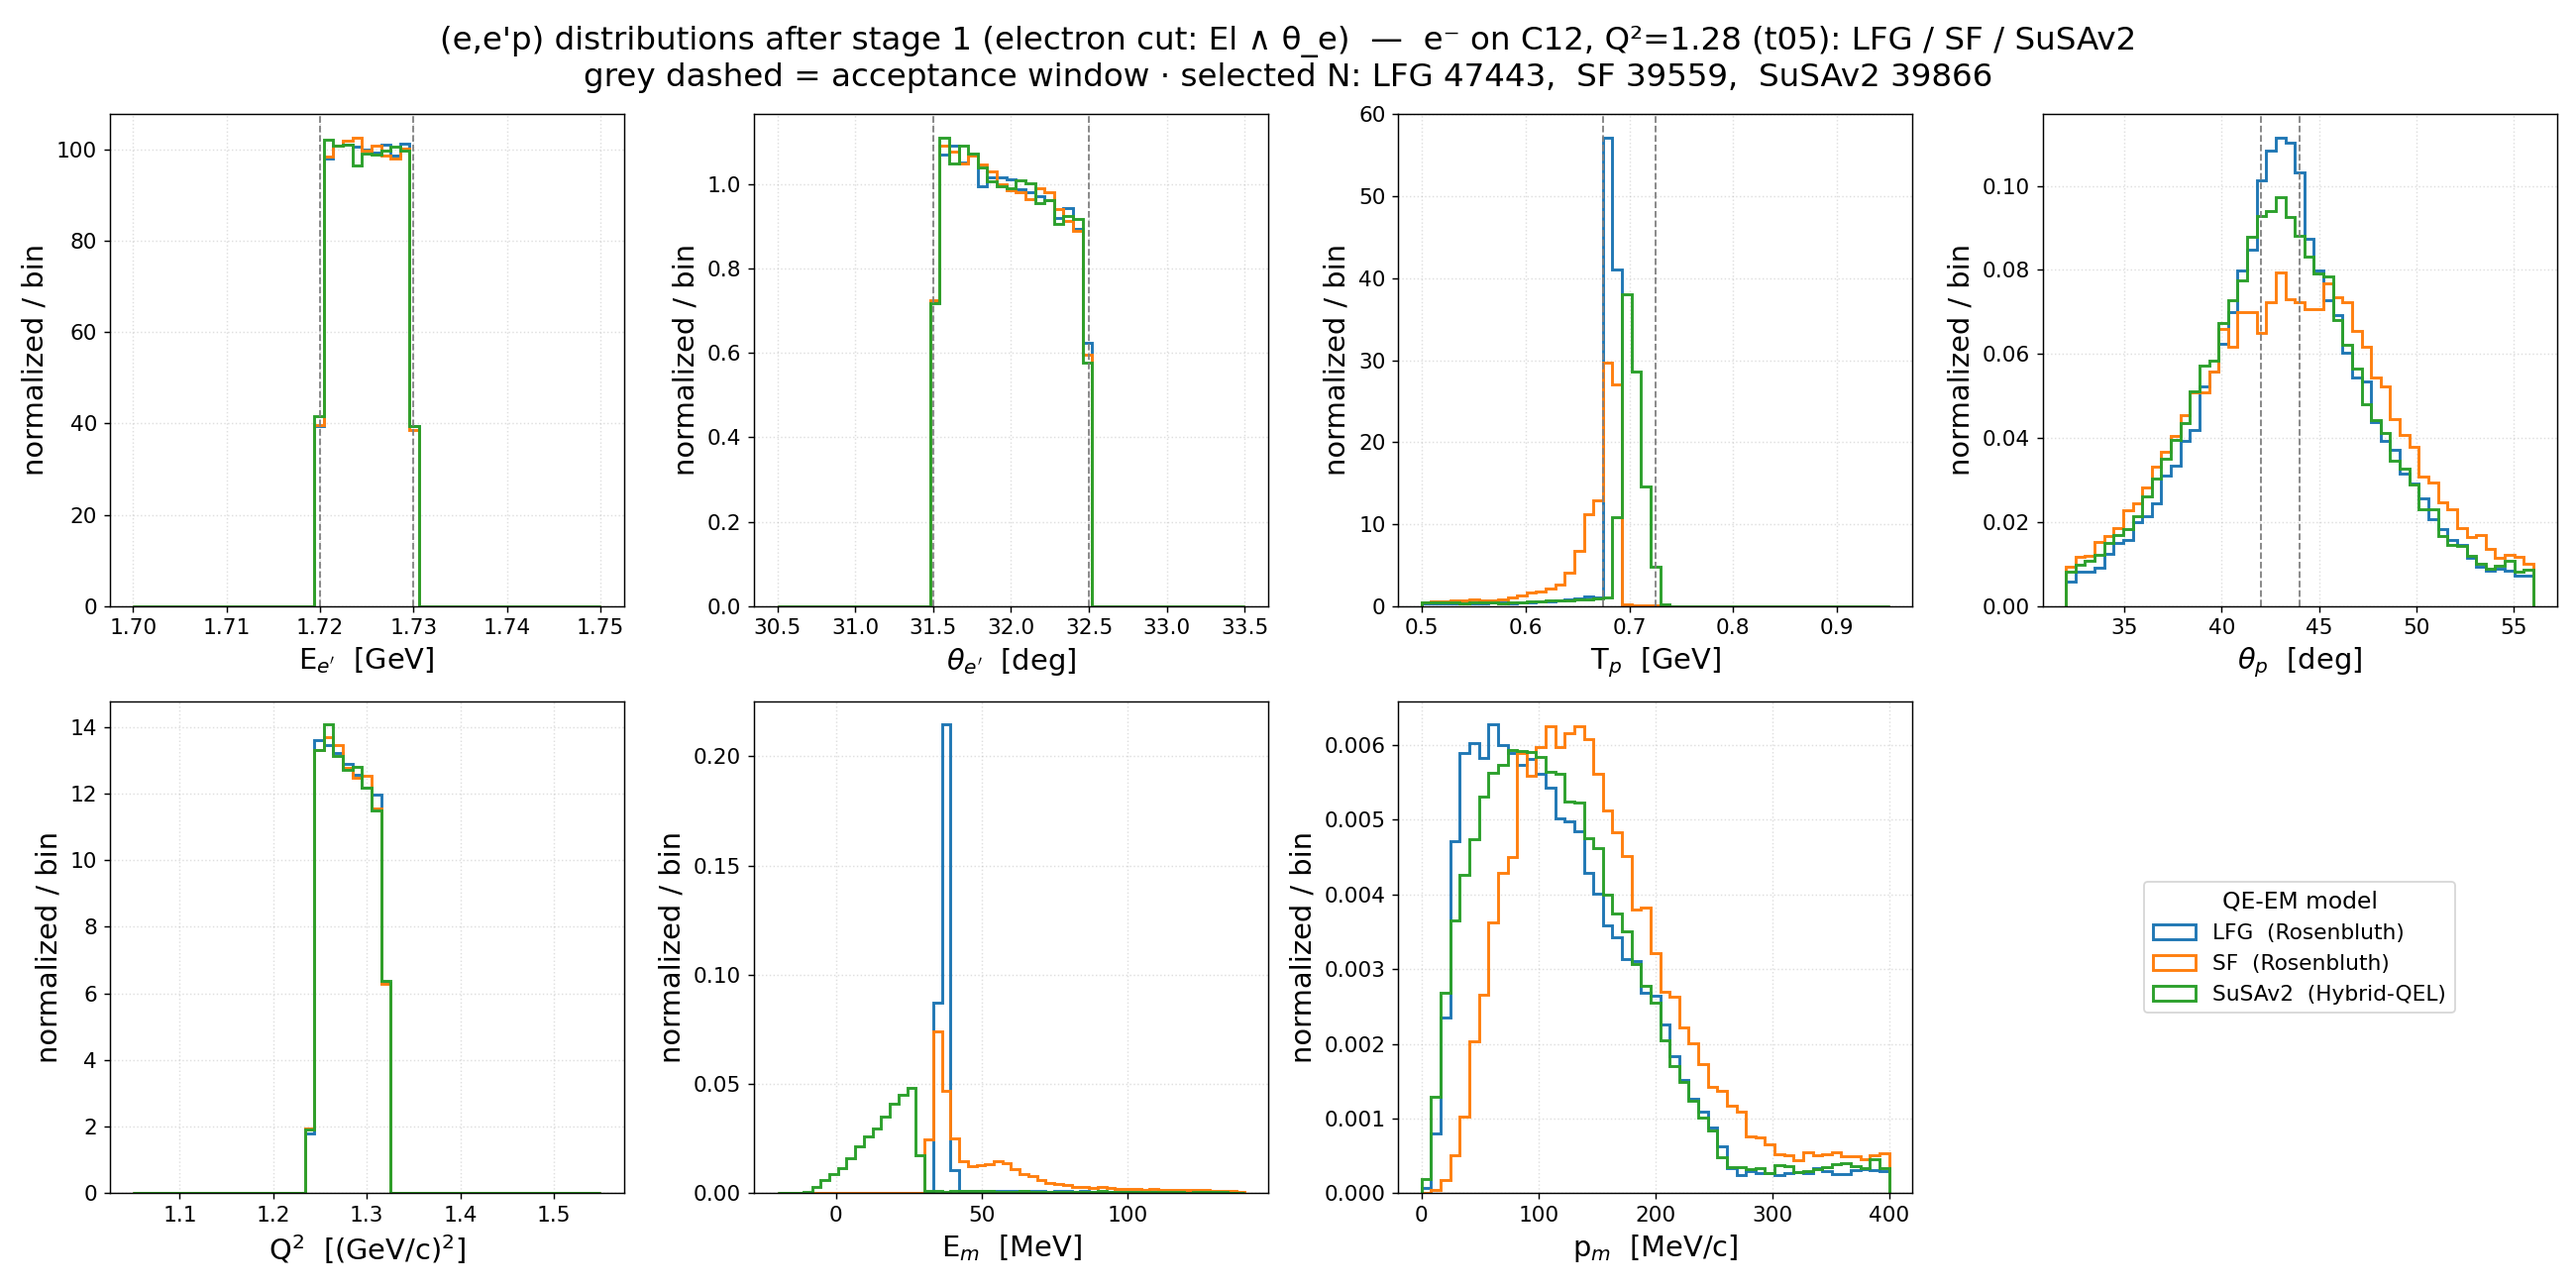
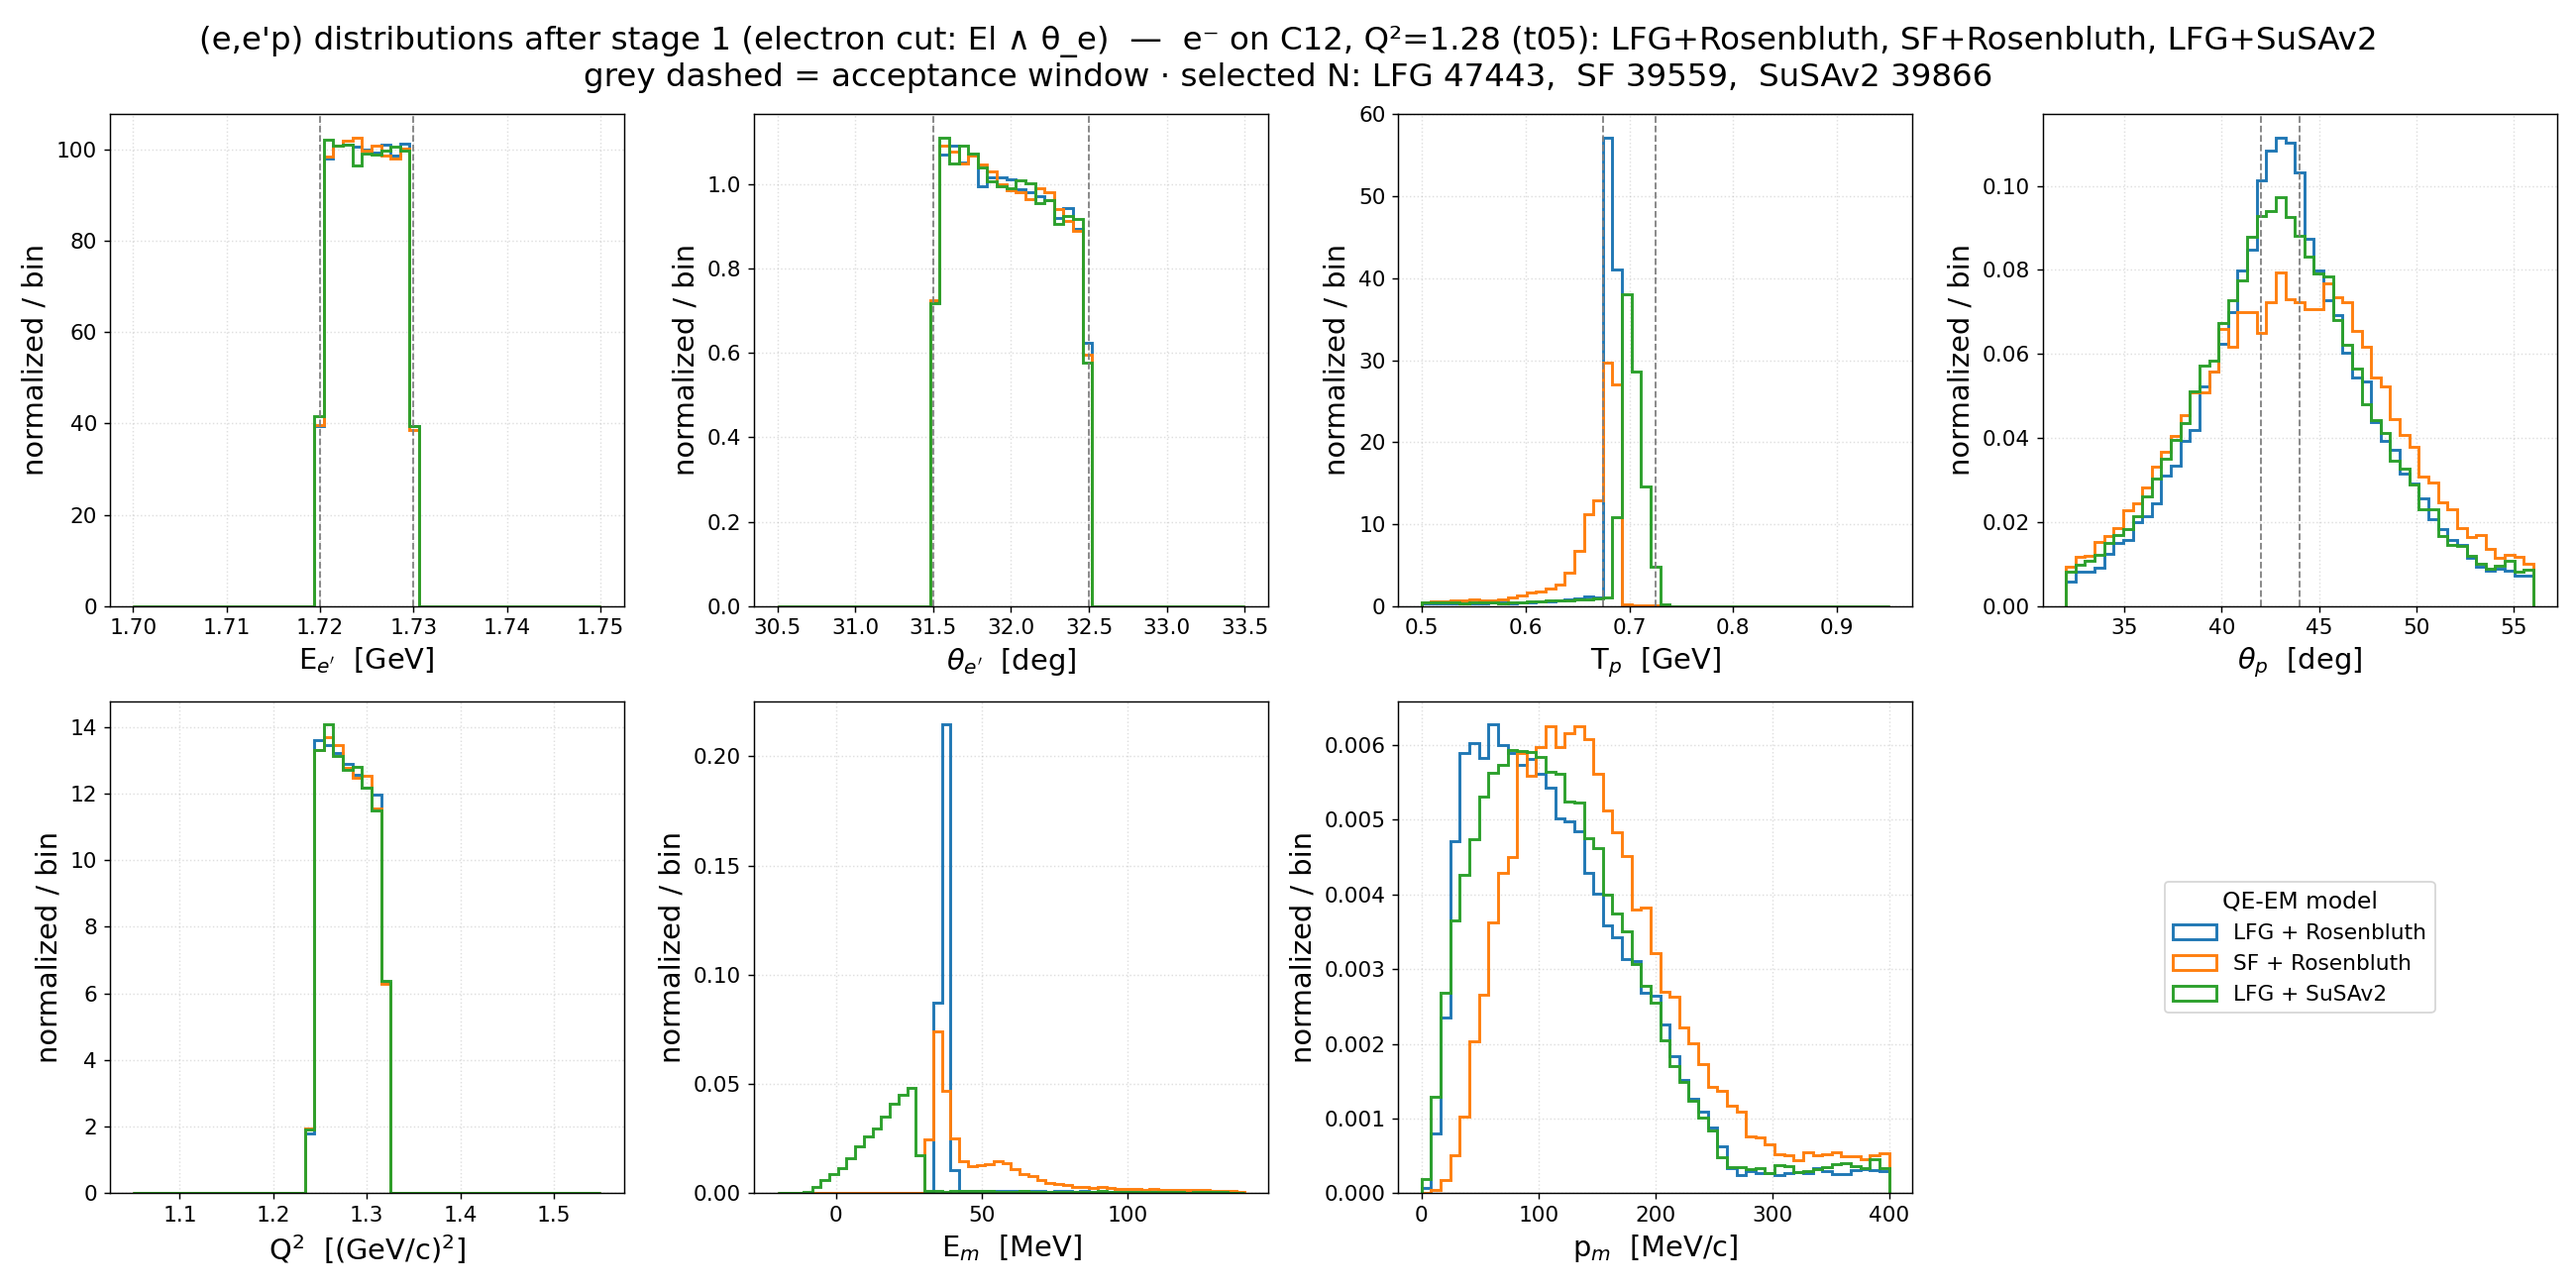
results/prd-analyzer: label configs as <ground state> + <QE model>
Relabel the three configs to LFG + Rosenbluth / SF + Rosenbluth / LFG + SuSAv2
(GEM21_11a is LocalFGM + HybridXSecAlgorithm/SuSAv2-QEL, i.e. LFG ground state,
not a distinct one). Makes the axes explicit: LFG vs SF isolates the ground state
(both Rosenbluth); LFG+Rosenbluth vs LFG+SuSAv2 isolates the QE-EM cross section
(both Local Fermi Gas). Updated samples.py labels, the three plot scripts
(legends, 2D cell titles, suptitles) and the README table; figures regenerated
(cache unchanged).

Changed region(s): [[0.4673, 0.0, 0.9035, 0.0615], [0.1246, 0.0, 0.4673, 0.0615], [0.8412, 0.7077, 0.9346, 0.8]]

diff --git a/results/prd-analyzer/samples.py b/results/prd-analyzer/samples.py
@@ -5,10 +5,13 @@ Three quasi-elastic EM models on C12 at E_beam = 2.445 GeV, generation cut `_05`
 setting). Each sample is ~10M events; instead of pre-pulling the grid output, we
 **stream the gst files straight off dCache over XRootD** (root://).
 
-    key      tune              QE-EM model                       install        files
-    LFG      GEM26_11a_05_000  Rosenbluth + LocalFGM ground st.  genie_inclxx   100 x 100k
-    SF       GEM26_22a_05_000  Rosenbluth + SpectralFunc g.s.    genie_inclxx   100 x 100k
-    SuSAv2   GEM21_11a_05_000  SuSAv2-QEL (HybridXSecAlgorithm)  genie_dev       20 x 500k
+    key      tune              config (ground state + QE-EM)      install        files
+    LFG      GEM26_11a_05_000  LFG + Rosenbluth                   genie_inclxx   100 x 100k
+    SF       GEM26_22a_05_000  SF  + Rosenbluth                   genie_inclxx   100 x 100k
+    SuSAv2   GEM21_11a_05_000  LFG + SuSAv2 (HybridXSecAlgorithm)  genie_dev       20 x 500k
+
+The clean axes: LFG vs SF isolates the ground state (both Rosenbluth); LFG vs SuSAv2
+isolates the QE-EM cross section (both Local Fermi Gas).
 
 The file *listing* is a local NFS metadata read of the /pnfs dir; the event DATA
 is streamed over XRootD. dCache auth needs a valid bearer token: export
@@ -24,13 +27,13 @@ _PNFS_ROOT = "/pnfs/dune/scratch/users/liangliu/jobsub-agent/prd_paper/EM"
 
 # key -> (legend label, color, /pnfs gevgen leaf dir with <proc>/<file>.gst.root)
 SAMPLES = {
-    "LFG": ("LFG  (Rosenbluth)", "C0",
+    "LFG": ("LFG + Rosenbluth", "C0",
             f"{_PNFS_ROOT}/genie_inclxx/GEM26_11a_05_000/"
             "eminus_C12_20260602-131202_gev/11_1000060120_GEM26_11a_05_000"),
-    "SF": ("SF  (Rosenbluth)", "C1",
+    "SF": ("SF + Rosenbluth", "C1",
            f"{_PNFS_ROOT}/genie_inclxx/GEM26_22a_05_000/"
            "eminus_C12_20260602-131216_gev/11_1000060120_GEM26_22a_05_000"),
-    "SuSAv2": ("SuSAv2  (Hybrid-QEL)", "C2",
+    "SuSAv2": ("LFG + SuSAv2", "C2",
                f"{_PNFS_ROOT}/genie_dev/GEM21_11a_05_000/"
                "eminus_C12_20260601-153754_gev/11_1000060120_GEM21_11a_05_000"),
 }

diff --git a/results/prd-analyzer/plot_2d.py b/results/prd-analyzer/plot_2d.py
@@ -29,7 +29,7 @@ for use_stage2, slabel in [(False, "stage 1"), (True, "stage 2")]:
     for m in S.MODELS:
         pm, em, s2 = data[m]
         mask = s2 if use_stage2 else np.ones(len(em), bool)
-        cells.append((f"{slabel} · {m}", pm, em, mask))
+        cells.append((f"{slabel} · {S.label(m)}", pm, em, mask))
 
 for ax, (title, pm, em, mask) in zip(axes, cells):
     h = ax.hist2d(pm[mask], em[mask], bins=[PBINS, EBINS], cmap="viridis", cmin=1)
@@ -39,7 +39,7 @@ for ax, (title, pm, em, mask) in zip(axes, cells):
     ax.tick_params(labelsize=FS_TICK)
     fig.colorbar(h[3], ax=ax, label="events / bin")
 
-fig.suptitle("(e,e'p) 2D missing energy vs momentum — e⁻ on C12, Q²=1.28 (t05): LFG / SF / SuSAv2\n"
+fig.suptitle("(e,e'p) 2D missing energy vs momentum — e⁻ on C12, Q²=1.28 (t05): LFG+Rosenbluth, SF+Rosenbluth, LFG+SuSAv2\n"
              "row 1 = stage 1 (electron cut),  row 2 = stage 2 (full coincidence)",
              fontsize=FS_SUPTITLE)
 fig.tight_layout()

diff --git a/results/prd-analyzer/plot_dists.py b/results/prd-analyzer/plot_dists.py
@@ -56,7 +56,7 @@ def make_fig(out, use_stage2, stage_label):
     axes[7].legend(handles, labels, title="QE-EM model", loc="center",
                    fontsize=FS_LEGEND, title_fontsize=FS_LEGEND_TITLE)
     ns = {m: (int(data[m][1].sum()) if use_stage2 else len(data[m][0]["El"])) for m in S.MODELS}
-    fig.suptitle(f"(e,e'p) distributions after {stage_label}  —  e⁻ on C12, Q²=1.28 (t05): LFG / SF / SuSAv2\n"
+    fig.suptitle(f"(e,e'p) distributions after {stage_label}  —  e⁻ on C12, Q²=1.28 (t05): LFG+Rosenbluth, SF+Rosenbluth, LFG+SuSAv2\n"
                  "grey dashed = acceptance window · selected N: "
                  + ",  ".join(f"{m} {ns[m]}" for m in S.MODELS),
                  fontsize=FS_SUPTITLE)

diff --git a/results/prd-analyzer/plot_missing.py b/results/prd-analyzer/plot_missing.py
@@ -45,7 +45,7 @@ style_axis(axP, title="missing momentum", xlabel=r"p$_m$ = |q⃗ − p⃗$_p$|  
 for ax in (axE, axP):
     ax.set_ylabel("normalized / bin", fontsize=FS_LABEL)
 axE.legend(title="QE-EM model", fontsize=FS_LEGEND, title_fontsize=FS_LEGEND_TITLE)
-fig.suptitle("(e,e'p) missing energy & momentum at Q²=1.28 — LFG vs SF vs SuSAv2\n"
+fig.suptitle("(e,e'p) missing energy & momentum at Q²=1.28\n"
              "e⁻ on C12, 2.445 GeV · E91-013 Table I row 5 cuts · area-normalized",
              fontsize=FS_SUPTITLE)
 fig.tight_layout()

diff --git a/results/prd-analyzer/README.md b/results/prd-analyzer/README.md
@@ -8,9 +8,13 @@ paper's Figs 9/10 across **three QE-EM models**:
 
 | model | tune | QE-EM cross section + ground state | install |
 |-------|------|------------------------------------|---------|
-| **LFG**    | `GEM26_11a_05_000` | Rosenbluth + Local Fermi Gas         | genie_inclxx |
-| **SF**     | `GEM26_22a_05_000` | Rosenbluth + Benhar Spectral Function | genie_inclxx |
-| **SuSAv2** | `GEM21_11a_05_000` | SuSAv2-QEL (`HybridXSecAlgorithm`)   | genie_dev |
+| **LFG + Rosenbluth** | `GEM26_11a_05_000` | Rosenbluth + Local Fermi Gas          | genie_inclxx |
+| **SF + Rosenbluth**  | `GEM26_22a_05_000` | Rosenbluth + Benhar Spectral Function | genie_inclxx |
+| **LFG + SuSAv2**     | `GEM21_11a_05_000` | SuSAv2-QEL + Local Fermi Gas (`HybridXSecAlgorithm`) | genie_dev |
+
+Two clean axes: **LFG vs SF** (rows 1↔2) isolates the **ground state** at fixed Rosenbluth
+cross section; **LFG+Rosenbluth vs LFG+SuSAv2** (rows 1↔3) isolates the **QE-EM cross section**
+at fixed Local Fermi Gas ground state.
 
 Each is ~10M `e⁻`-on-C12 events at generation cut **t05** (EM-MinQ2Limit = 1.18 GeV², so Q² ≥ 1.18
 brackets the Q² = 1.28 setting). The samples are **streamed straight off dCache over XRootD** — no
